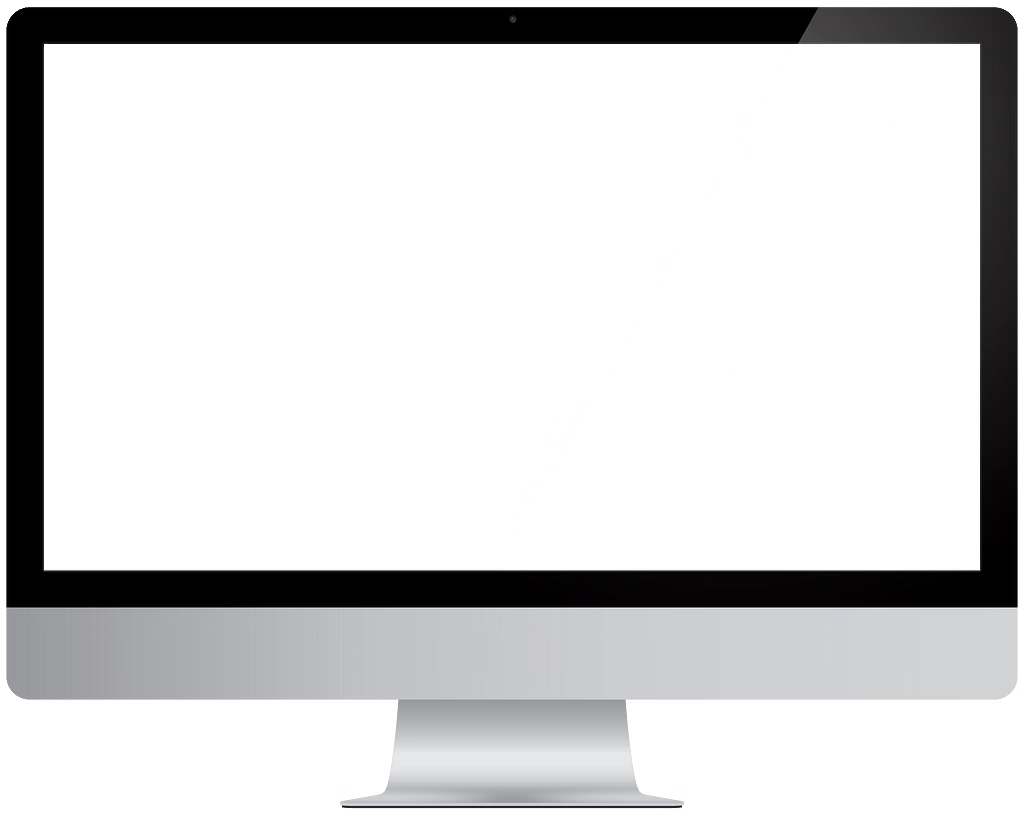
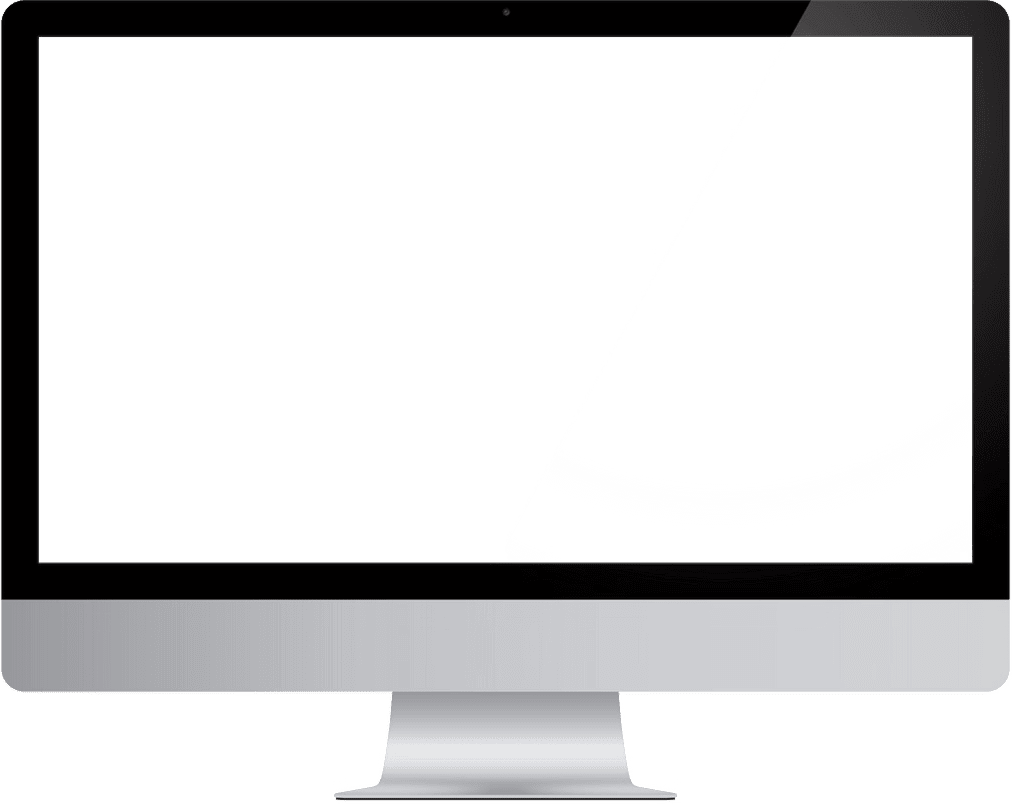
better frame and angle

Changed region(s): [[0.0, 0.0, 1.0, 0.8706], [0.337, 0.9639, 0.6739, 1.0]]

diff --git a/apps/next/src/components/home/projects.tsx b/apps/next/src/components/home/projects.tsx
@@ -18,14 +18,19 @@ const Projects = ({ lang, title }: Props) => {
   const { t } = useTranslation(lang, ['projects', 'home']);
   const [inView, setInView] = useState(0);
   const rotateY = useMotionValue(0);
+  const rotateX = useMotionValue(5);
+  const rotateZ = useMotionValue(5);
   const left = useSpring('0' as unknown as never, {
     stiffness: 100,
     damping: 15,
   });
-  const ROTATE = lang === 'ar' ? -30 : 30;
+  const ROTATE = lang === 'ar' ? 30 : -30;
+  const ANGLE = lang === 'ar' ? 3 : -3;
 
   useEffect(() => {
-    rotateY.set(-ROTATE);
+    rotateY.set(ROTATE);
+    rotateX.set(ANGLE);
+    rotateZ.set(ANGLE);
     left.set(lang === 'ar' ? '-50%' : '50%');
     // eslint-disable-next-line react-hooks/exhaustive-deps
   }, []);
@@ -41,7 +46,12 @@ const Projects = ({ lang, title }: Props) => {
               className='relative inline-block h-full max-h-[700px] w-[50%] max-w-[800px] overflow-hidden'
               layout
               layoutId='image'
-              style={{ rotateY, left }}
+              style={{
+                rotateY,
+                left,
+                rotateX,
+                rotateZ,
+              }}
               transformTemplate={(_, transform) => `perspective(2000px) ${transform}`}
             >
               <Image
@@ -54,7 +64,7 @@ const Projects = ({ lang, title }: Props) => {
               <AnimatePresence>
                 <motion.div
                   animate={{ top: '0%', opacity: 1 }}
-                  className='absolute left-0 top-0 z-10 h-full w-full !overflow-hidden'
+                  className='absolute z-10 h-full w-full overflow-hidden'
                   exit={{ top: '-15%', opacity: 0 }}
                   initial={{ top: '15%', opacity: 0 }}
                   key={inView}
@@ -62,7 +72,7 @@ const Projects = ({ lang, title }: Props) => {
                 >
                   <Image
                     alt={t(`projects:${projectsList[inView].project}.title`)}
-                    className='mx-auto h-full max-h-[80%] max-w-[94%] overflow-y-auto object-contain'
+                    className='mx-auto h-full max-h-[80%] max-w-[94%] object-contain'
                     fill
                     sizes='(max-width: 1024px) 100vw, 800px'
                     src={projectsList[inView].thumbnail}
@@ -85,7 +95,9 @@ const Projects = ({ lang, title }: Props) => {
               lang={lang}
               onViewportEnter={() => {
                 setInView(i);
-                rotateY.set(i % 2 === 0 ? -ROTATE : ROTATE);
+                rotateY.set(i % 2 === 0 ? ROTATE : -ROTATE);
+                rotateX.set(i % 2 === 0 ? -ANGLE : 0);
+                rotateZ.set(i % 2 === 0 ? -ANGLE : ANGLE);
                 if (lang === 'ar') {
                   left.set(i % 2 === 0 ? '-50%' : '0%');
                 } else {
